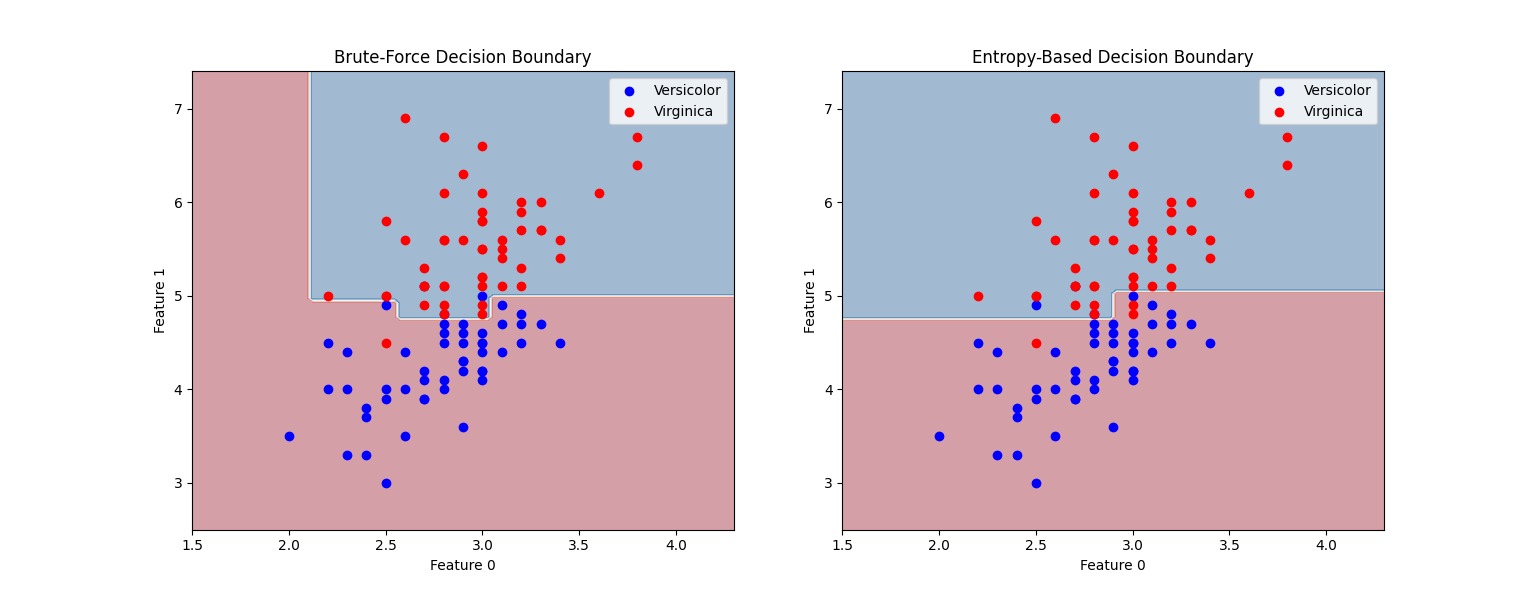
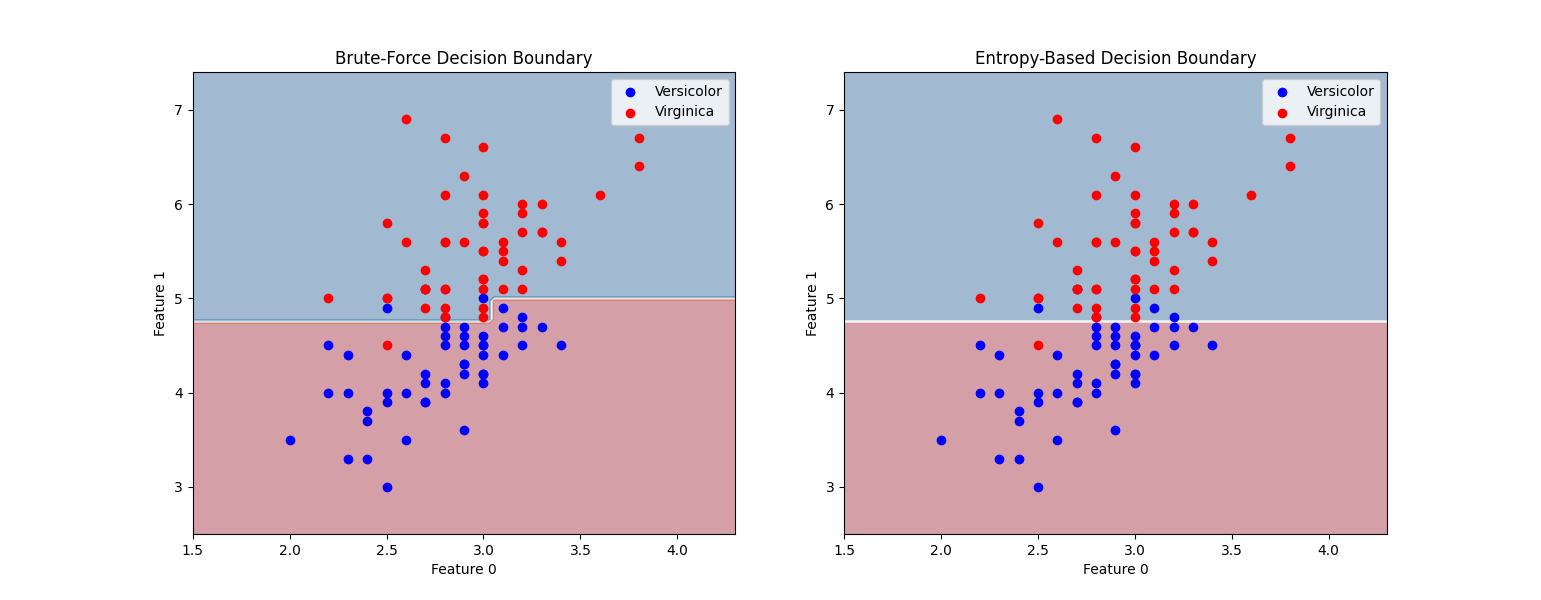
Change the implementation to use 2-level tree.

diff --git a/main.py b/main.py
@@ -11,7 +11,7 @@ from models.decision_trees import DecisionTreeBruteForce, DecisionTreeEntropy
 from models.knn import evaluate_knn_parameters
 from visualization import plot_tree, plot_decision_boundary
 
-def run_decision_tree_comparison(X: np.ndarray, y: np.ndarray, k: int = 3) -> None:
+def run_decision_tree_comparison(X: np.ndarray, y: np.ndarray, k: int = 2) -> None:
     """
     Compare brute-force and entropy-based decision tree approaches.
     
@@ -87,7 +87,7 @@ def main():
     run_knn_analysis(X, y)
 
     # Run decision tree analysis
-    run_decision_tree_comparison(X, y, k=3)
+    run_decision_tree_comparison(X, y, k=2)
 
 
 if __name__ == "__main__":

diff --git a/models/decision_trees.py b/models/decision_trees.py
@@ -34,7 +34,7 @@ class Node:
                 else self.right.predict(x))
 
 class DecisionTreeBruteForce:
-    def __init__(self, max_depth: int = 3):
+    def __init__(self, max_depth: int = 2):
         self.max_depth = max_depth
         self.root = None
         
@@ -115,7 +115,7 @@ class DecisionTreeBruteForce:
 class DecisionTreeEntropy:
     """Decision tree implementation using entropy-based splitting."""
     
-    def __init__(self, max_depth: int = 3):
+    def __init__(self, max_depth: int = 2):
         self.max_depth = max_depth
         self.root = None
 
